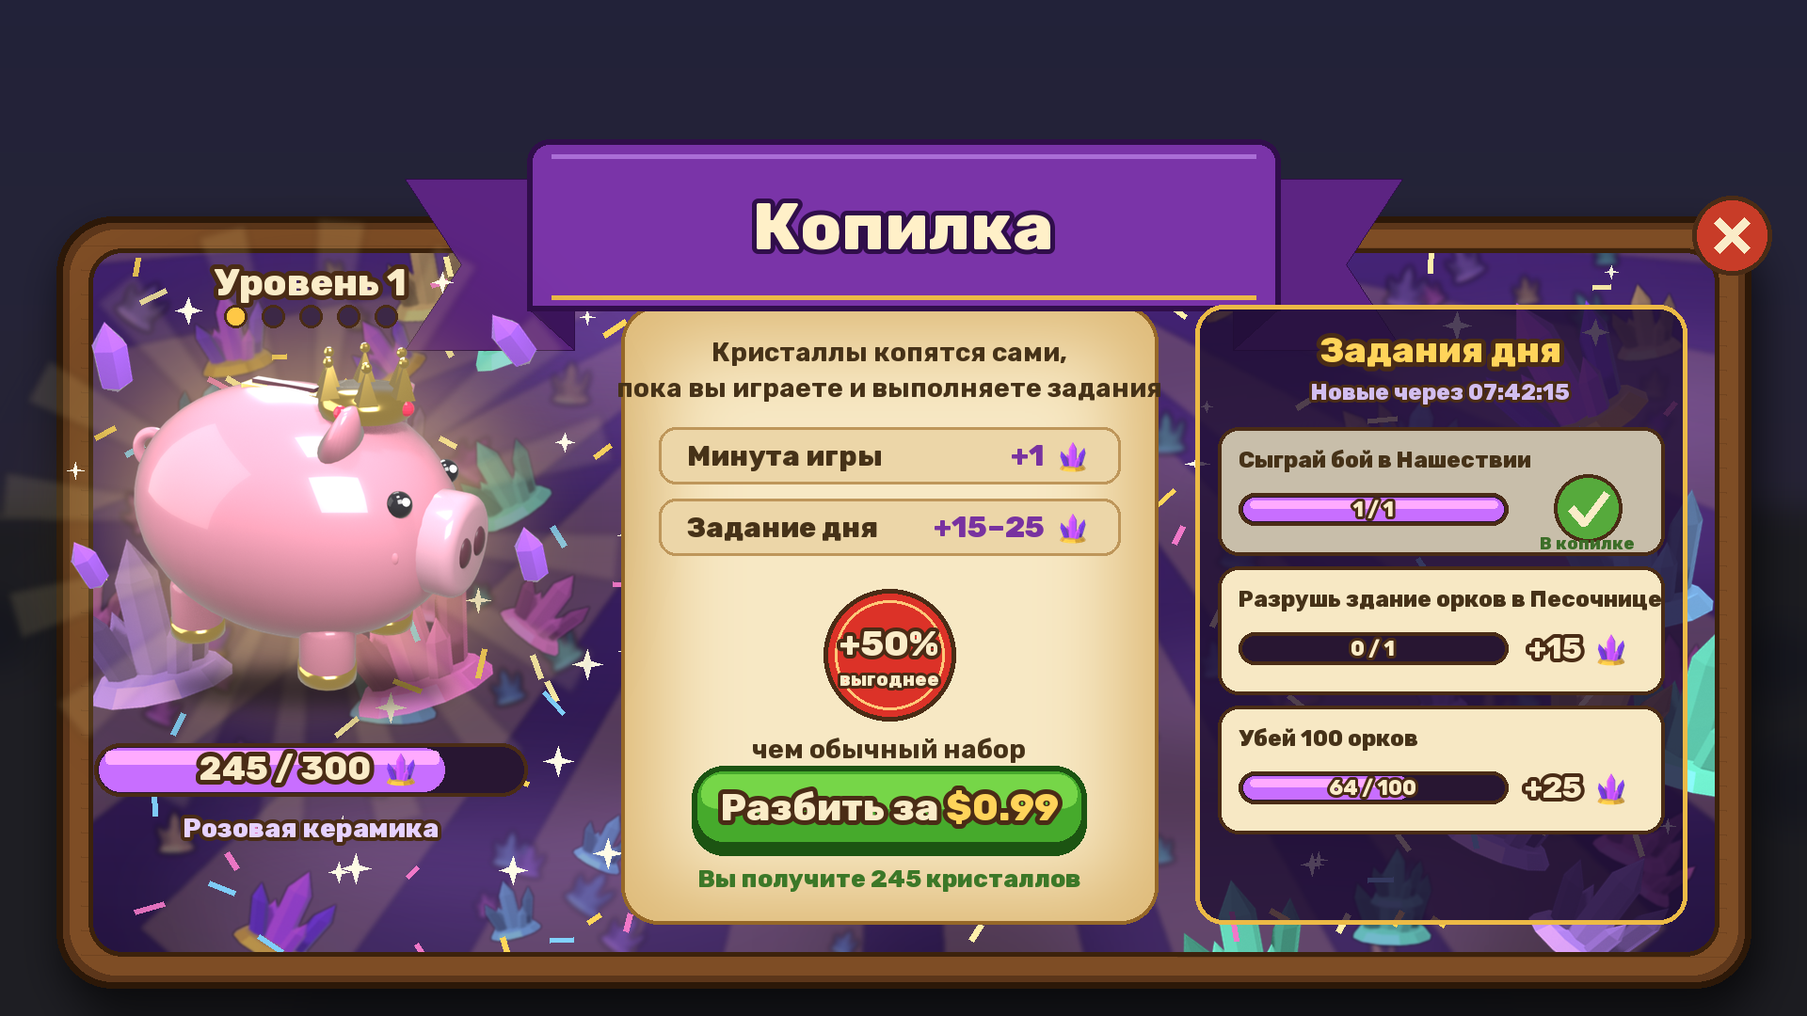
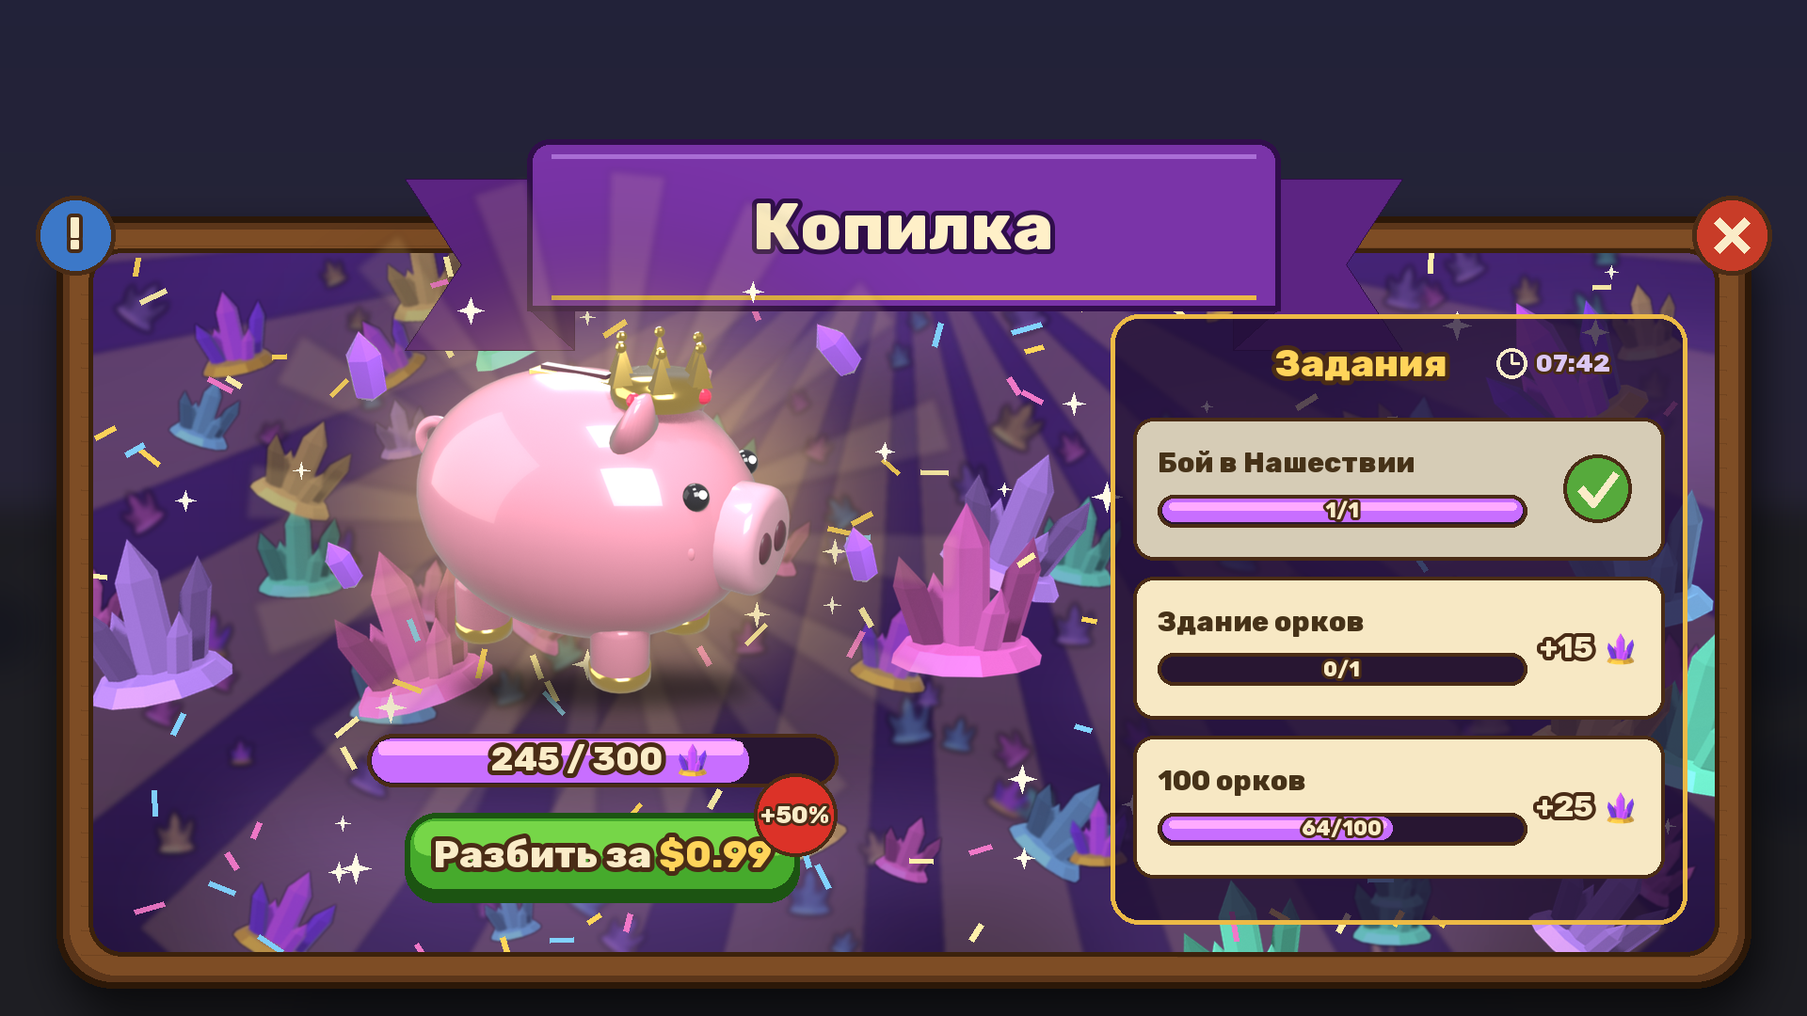
Piggy window v2: far less text -- pig, bar, break button, compact tasks; explanations moved to an «!» popup

diff --git a/Tools/store/piggy_window_concept.py b/Tools/store/piggy_window_concept.py
@@ -1,14 +1,14 @@
 """
-Piggy bank window («Копилка», the user 2026-11-15/16): what a tap on the corner button opens -- a concept for approval.
-Built on the support banner's look (wood frame, royal-purple crystal field, ribbon title, parchment):
-left the big royal pig of the current level with floating crystals, the level and a fill bar; centre a parchment
-with how it fills, the value tag and «Разбить за $X» (locked below 150); right the day's tasks (examples only --
-the list is still to be discussed). Two states side by side: saving and full.
+Piggy bank window («Копилка»), concept v2 (the user, 2026-11-16: v1 had too much text and looked off-putting --
+cut it down, move explanations behind an «!» info button).
+The window holds only what the player acts on: the pig, its fill bar, «Разбить за $X» (with a small «+50 %» badge),
+and a compact list of the day's tasks. Everything that explains (how it fills, from 150, +50 %, levels) lives in
+the «!» popup. Three pictures: saving, full, the «!» popup.
 
     python Tools/store/piggy_window_concept.py <renders folder>
 
 <renders folder> holds piggy_royal_pink_alone.png and piggy_gem_pink.png (Tools/blender/store/piggy_bank.py).
-Writes Design/store/Piggy_Window_Concept.png.
+Writes Design/store/Piggy_Window_Concept.png, Piggy_Window_Full_Concept.png, Piggy_Window_Info_Concept.png.
 """
 import math
 import os
@@ -16,14 +16,15 @@ import sys
 
 sys.path.insert(0, os.path.dirname(os.path.abspath(__file__)))
 from PIL import Image, ImageDraw, ImageFilter
-from menu_shop_mockup import W, H, R, INK, CREAM, text, put, price_button, sliced, crystal, menu_scene, sparkle, font
-from support_banner_v2_mockup import frame, parchment, band, layer, IX0, IY0, IX1, IY1, X1, Y0
+from menu_shop_mockup import W, H, R, INK, CREAM, text, put, sliced, crystal, menu_scene, sparkle, font
+from support_banner_v2_mockup import frame, parchment, band, layer, IX0, IY0, IX1, IY1, X0, X1, Y0
 
 SHOP = R + 'Assets/_Project/UI/Shop/'
 GOLD = (255, 212, 90)
 DARK = (70, 50, 24)
-TASKS = [('Сыграй бой в Нашествии', 1, 1, 20), ('Разрушь здание орков в Песочнице', 0, 1, 15),
-         ('Убей 100 орков', 64, 100, 25)]
+# the tasks shown are EXAMPLES (the list is to be discussed): short names, one line each
+TASKS = [('Бой в Нашествии', 1, 1, 20), ('Здание орков', 0, 1, 15), ('100 орков', 64, 100, 25)]
+PX = 640     # the pig column's centre
 
 
 def trim(im, w=None, h=None):
@@ -32,168 +33,168 @@ def trim(im, w=None, h=None):
     return im.resize((max(1, round(im.width * k)), max(1, round(im.height * k))), Image.LANCZOS)
 
 
-def bar(img, box, k, full):
+def bar(img, box, k, gold):
     x0, y0, x1, y1 = box
     d = ImageDraw.Draw(img)
     r = (y1 - y0) // 2
     d.rounded_rectangle(box, r, fill=(40, 22, 50), outline=INK, width=4)
     if k > 0:
         fx = x0 + 5 + (x1 - x0 - 10) * min(1, k)
-        col = (255, 196, 60) if full else (200, 110, 255)
+        col = (255, 196, 60) if gold else (200, 110, 255)
         d.rounded_rectangle((x0 + 5, y0 + 5, fx, y1 - 5), r - 5, fill=col)
         d.rounded_rectangle((x0 + 12, y0 + 8, fx - 6, y0 + 8 + (y1 - y0) // 4), 4,
                             fill=tuple(min(255, c + 60) for c in col))
 
 
-def pig_side(img, pig, gem, count, cap, full):
-    """Left: shine, rays, the pig, the floating crystals, level tag, the fill bar."""
-    cx, cy = 330, 560
+def round_button(d, c, r, fill, glyph):
+    x, y = c
+    d.ellipse((x - r, y - r, x + r, y + r), fill=fill, outline=INK, width=5)
+    text(d, (x, y - 2), glyph, int(r * 1.15), stroke=4)
+
+
+def pig_column(img, pig, gem, count, cap, full):
+    cx, cy = PX, 560
     g = layer()
-    ImageDraw.Draw(g).ellipse((cx - 250, cy - 240, cx + 250, cy + 220), fill=(255, 214, 110, 170 if full else 110))
-    img.alpha_composite(g.filter(ImageFilter.GaussianBlur(60)))
+    ImageDraw.Draw(g).ellipse((cx - 300, cy - 260, cx + 300, cy + 220), fill=(255, 214, 110, 170 if full else 110))
+    img.alpha_composite(g.filter(ImageFilter.GaussianBlur(70)))
     lay = layer()
     ld = ImageDraw.Draw(lay)
     for i in range(16):
         a = i * math.pi / 8 + 0.1
-        ld.polygon([(cx, cy), (cx + math.cos(a - 0.08) * 330, cy + math.sin(a - 0.08) * 330),
-                    (cx + math.cos(a + 0.08) * 330, cy + math.sin(a + 0.08) * 330)], fill=(255, 230, 150, 50 if full else 30))
+        ld.polygon([(cx, cy), (cx + math.cos(a - 0.08) * 380, cy + math.sin(a - 0.08) * 380),
+                    (cx + math.cos(a + 0.08) * 380, cy + math.sin(a + 0.08) * 380)], fill=(255, 230, 150, 50 if full else 30))
     img.alpha_composite(lay.filter(ImageFilter.GaussianBlur(4)))
-    p = trim(pig, w=380)
+    p = trim(pig, w=400)
     if full:
         p = p.rotate(-3, resample=Image.BICUBIC, expand=True)
     sh = layer()
-    ImageDraw.Draw(sh).ellipse((cx - 150, cy + 150, cx + 150, cy + 190), fill=(0, 0, 0, 130))
+    ImageDraw.Draw(sh).ellipse((cx - 160, cy + 150, cx + 160, cy + 192), fill=(0, 0, 0, 130))
     img.alpha_composite(sh.filter(ImageFilter.GaussianBlur(10)))
-    img.alpha_composite(p, (round(cx - p.width / 2), round(cy + 175 - p.height)))
-    for x, y, h, t in ((120, 380, 70, -12), (545, 360, 60, 14), (95, 600, 52, 8), (565, 590, 56, -10)):
+    img.alpha_composite(p, (round(cx - p.width / 2), round(cy + 178 - p.height)))
+    for x, y, h, t in ((cx - 250, 390, 70, -12), (cx + 250, 370, 60, 14), (cx - 275, 600, 52, 8), (cx + 275, 590, 56, -10)):
         q = trim(gem, h=h).rotate(t, resample=Image.BICUBIC, expand=True)
         img.alpha_composite(q, (x - q.width // 2, y - q.height // 2))
     d = ImageDraw.Draw(img)
-    for x, y, r in ((200, 330, 14), (470, 300, 11), (600, 470, 10), (80, 500, 9)):
+    for x, y, r in ((cx - 140, 330, 14), (cx + 160, 310, 11), (cx + 300, 480, 10), (cx - 320, 500, 9)):
         sparkle(d, x, y, r)
-    # level: «Уровень 1 · Розовая керамика» + five pips
-    text(d, (cx, 300), 'Уровень 1', 40, fill=CREAM)
-    for i in range(5):
-        x = cx - 80 + i * 40
-        d.ellipse((x - 12, 336 - 12, x + 12, 336 + 12), fill=(255, 200, 70) if i == 0 else (60, 40, 70), outline=INK, width=3)
-    if full:
-        d.rounded_rectangle((cx + 120, 752, cx + 290, 800), 24, fill=(220, 50, 40), outline=(90, 14, 10), width=4)
-        text(d, (cx + 205, 775), 'Полна!', 30, fill=(255, 245, 225), stroke=3, stroke_fill=(90, 14, 10))
-    # the fill bar with the count
-    bar(img, (cx - 230, 790, cx + 230, 846), count / cap, full)
-    s = '%s / %s' % (count, cap)
+    # no level marks in the window: the pig's material shows the level, «Уровень N из 5» is in the «!» popup
+    # the fill bar with the count; «Полна!» rides on it when full
+    bar(img, (cx - 250, 780, cx + 250, 836), count / cap, full)
     d = ImageDraw.Draw(img)
+    s = '%s / %s' % (count, cap)
     f = font(36)
     tw = d.textlength(s, font=f)
     ic = crystal(44)
     x0 = cx - (tw + 10 + ic.width) / 2
-    text(d, (x0, 816), s, 36, fill=GOLD if full else CREAM, anchor='lm')
-    put(img, ic, (x0 + tw + 10 + ic.width / 2, 816))
-    text(d, (cx, 880), 'Розовая керамика', 28, fill=(230, 210, 255), stroke=4)
-
-
-def centre_column(img, box, count, full):
-    pw0, pt, pw1, pb = box
-    cx = (pw0 + pw1) / 2
-    d = ImageDraw.Draw(img)
-    text(d, (cx, pt + 50), 'Кристаллы копятся сами,', 28, fill=DARK, stroke=0, heavy=False)
-    text(d, (cx, pt + 88), 'пока вы играете и выполняете задания', 28, fill=DARK, stroke=0, heavy=False)
-    # how it fills: two lines with icons
-    y = pt + 160
-    for words, n in (('Минута игры', '+1'), ('Задание дня', '+15–25')):
-        d.rounded_rectangle((pw0 + 40, y - 30, pw1 - 40, y + 30), 18, fill=(236, 214, 168), outline=(190, 150, 90), width=3)
-        text(d, (pw0 + 70, y), words, 30, fill=DARK, stroke=0, anchor='lm')
-        ic = crystal(40)
-        put(img, ic, (pw1 - 70 - ic.width / 2, y))
-        text(d, (pw1 - 80 - ic.width, y), n, 32, fill=(120, 50, 160), stroke=0, anchor='rm')
-        y += 76
-    # the value: a red seal «+50 %» and a line
-    sy = y + 60
-    d.ellipse((cx - 70, sy - 70, cx + 70, sy + 70), fill=(220, 50, 40), outline=INK, width=5)
-    d.ellipse((cx - 58, sy - 58, cx + 58, sy + 58), outline=(255, 200, 120), width=3)
-    text(d, (cx, sy - 12), '+50%', 38, stroke=4)
-    text(d, (cx, sy + 26), 'выгоднее', 20, stroke=3)
-    text(d, (cx, sy + 100), 'чем обычный набор', 28, fill=DARK, stroke=0, heavy=False)
-    # the break button
-    by = pb - 120
-    if count >= 150:
-        put(img, sliced(SHOP + 'ButtonGreen.png', 420, 96, 40), (cx, by))
-        line_y = by - 4
-        f = font(40)
-        s1, s2 = 'Разбить за ', '$0.99'
-        w1, w2 = d.textlength(s1, font=f), d.textlength(s2, font=f)
-        x = cx - (w1 + w2) / 2
-        text(d, (x, line_y), s1, 40, anchor='lm')
-        text(d, (x + w1, line_y), s2, 40, fill=GOLD, anchor='lm')
-        n = '{:,}'.format(count).replace(',', ' ')
-        text(d, (cx, by + 72), 'Вы получите %s кристаллов' % n, 26, fill=(60, 120, 40), stroke=0)
-    else:
-        put(img, sliced(SHOP + 'ButtonGreen.png', 420, 96, 40).convert('LA').convert('RGBA'), (cx, by))
-        text(d, (cx, by - 4), 'Разбить от 150', 40)
+    text(d, (x0, 806), s, 36, fill=GOLD if full else CREAM, anchor='lm')
+    put(img, ic, (x0 + tw + 10 + ic.width / 2, 806))
     if full:
-        g = layer()
-        ImageDraw.Draw(g).rounded_rectangle((cx - 230, by - 60, cx + 230, by + 60), 40, outline=(255, 220, 90, 220), width=16)
-        img.alpha_composite(g.filter(ImageFilter.GaussianBlur(10)))
+        d.rounded_rectangle((cx + 150, 744, cx + 310, 790), 23, fill=(220, 50, 40), outline=(90, 14, 10), width=4)
+        text(d, (cx + 230, 766), 'Полна!', 28, fill=(255, 245, 225), stroke=3, stroke_fill=(90, 14, 10))
+    # the break button + a small «+50 %» badge on its corner
+    by = 912
+    if full:
+        gl = layer()
+        ImageDraw.Draw(gl).rounded_rectangle((cx - 230, by - 58, cx + 230, by + 58), 40, outline=(255, 220, 90, 220), width=16)
+        img.alpha_composite(gl.filter(ImageFilter.GaussianBlur(10)))
+    put(img, sliced(SHOP + 'ButtonGreen.png', 420, 96, 40), (cx, by))
+    d = ImageDraw.Draw(img)
+    f = font(40)
+    s1, s2 = 'Разбить за ', '$0.99'
+    w1, w2 = d.textlength(s1, font=f), d.textlength(s2, font=f)
+    x = cx - (w1 + w2) / 2
+    text(d, (x, by - 4), s1, 40, anchor='lm')
+    text(d, (x + w1, by - 4), s2, 40, fill=GOLD, anchor='lm')
+    bx, byy = cx + 205, by - 46
+    d.ellipse((bx - 44, byy - 44, bx + 44, byy + 44), fill=(220, 50, 40), outline=INK, width=4)
+    text(d, (bx, byy), '+50%', 26, stroke=3)
 
 
 def tasks_panel(img, box, full):
     x0, y0, x1, y1 = box
-    d = ImageDraw.Draw(img)
     p = layer()
-    ImageDraw.Draw(p).rounded_rectangle(box, 30, fill=(30, 14, 50, 200), outline=(236, 186, 70, 255), width=5)
+    ImageDraw.Draw(p).rounded_rectangle(box, 30, fill=(30, 14, 50, 190), outline=(236, 186, 70, 255), width=5)
     img.alpha_composite(p)
     d = ImageDraw.Draw(img)
     cx = (x0 + x1) / 2
-    text(d, (cx, y0 + 48), 'Задания дня', 38, fill=GOLD)
-    text(d, (cx, y0 + 92), 'Новые через 07:42:15', 24, fill=(210, 190, 240), stroke=3)
-    y = y0 + 130
+    text(d, (cx - 40, y0 + 52), 'Задания', 40, fill=GOLD)
+    # the reset time as a small clock + time, no words
+    tx = cx + 120
+    d.ellipse((tx - 16, y0 + 36, tx + 16, y0 + 68), outline=CREAM, width=4)
+    d.line((tx, y0 + 52, tx, y0 + 42), fill=CREAM, width=3)
+    d.line((tx, y0 + 52, tx + 8, y0 + 52), fill=CREAM, width=3)
+    text(d, (tx + 26, y0 + 52), '07:42', 26, fill=(220, 200, 245), stroke=3, anchor='lm')
+    y = y0 + 110
+    rh = (y1 - y0 - 140) // 3
     for name, have, need, reward in TASKS:
         done = have >= need
-        claimed = done and name.startswith('Сыграй')
-        rb = (x0 + 24, y, x1 - 24, y + 136)
-        d.rounded_rectangle(rb, 22, fill=(247, 232, 196) if not claimed else (200, 190, 170), outline=INK, width=4)
-        text(d, (x0 + 46, y + 34), name, 24, fill=DARK, stroke=0, anchor='lm')
-        # progress
-        bar(img, (x0 + 46, y + 70, x1 - 190, y + 104), have / need, False)
+        rb = (x0 + 24, y, x1 - 24, y + rh - 18)
+        d.rounded_rectangle(rb, 22, fill=(247, 232, 196) if not done else (214, 204, 182), outline=INK, width=4)
+        mid = (rb[1] + rb[3]) / 2
+        text(d, (x0 + 50, mid - 28), name, 30, fill=DARK, stroke=0, anchor='lm')
+        bar(img, (x0 + 50, mid + 6, x1 - 170, mid + 40), have / need, False)
         d = ImageDraw.Draw(img)
-        text(d, ((x0 + 46 + x1 - 190) / 2, y + 87), '%d / %d' % (have, need), 22, stroke=3)
-        # reward / state on the right
-        rx = x1 - 105
-        if claimed:
-            d.ellipse((rx - 36, y + 50, rx + 36, y + 122), fill=(86, 170, 60), outline=INK, width=4)
-            d.line((rx - 18, y + 86, rx - 4, y + 102, rx + 20, y + 70), fill=CREAM, width=9, joint='curve')
-            text(d, (rx, y + 124), 'В копилке', 18, fill=(60, 110, 40), stroke=0)
+        text(d, ((x0 + 50 + x1 - 170) / 2, mid + 23), '%d/%d' % (have, need), 22, stroke=3)
+        rx = x1 - 95
+        if done:   # credited into the piggy by itself: just a tick
+            d.ellipse((rx - 36, mid - 36, rx + 36, mid + 36), fill=(86, 170, 60), outline=INK, width=4)
+            d.line((rx - 18, mid, rx - 4, mid + 16, rx + 20, mid - 16), fill=CREAM, width=9, joint='curve')
         else:
             ic = crystal(42)
-            s = '+%d' % reward
-            text(d, (rx - 6, y + 87), s, 32, fill=CREAM, anchor='rm', stroke=4)
-            put(img, ic, (rx + 4 + ic.width / 2, y + 87))
-        y += 148
-    if full:
-        d.rounded_rectangle((x0 + 24, y1 - 82, x1 - 24, y1 - 20), 18, fill=(220, 50, 40), outline=(90, 14, 10), width=4)
-        text(d, (cx, y1 - 60), 'Копилка полна —', 22, stroke=3, stroke_fill=(90, 14, 10))
-        text(d, (cx, y1 - 36), 'награды заданий пропадут!', 22, stroke=3, stroke_fill=(90, 14, 10))
+            col = (150, 140, 130) if full else CREAM   # full: rewards go grey (they would be lost)
+            text(d, (rx - 4, mid), '+%d' % reward, 32, fill=col, anchor='rm', stroke=4)
+            g = ic.convert('LA').convert('RGBA') if full else ic
+            put(img, g, (rx + 4 + ic.width / 2, mid))
+        y += rh
 
 
 def window(pig, gem, count, cap, full):
     img = menu_scene()
     img = Image.alpha_composite(img.filter(ImageFilter.GaussianBlur(6)), Image.new('RGBA', (W, H), (14, 6, 30, 190)))
     win = frame()
-    pbox = (660, IY0 + 60, 1230, IY1 - 34)
-    win = parchment(win, pbox)
     rx0, rx1, ry0, ry1 = 560, 1360, Y0 - 82, IY0 + 66
     win, rib_o = band(win, rx0, rx1, ry0, ry1)
     img = Image.alpha_composite(img, win)
     d = ImageDraw.Draw(img)
     text(d, ((rx0 + rx1) / 2, (ry0 + ry1) / 2 + 2), 'Копилка', 70, fill=(255, 240, 200), stroke=5, stroke_fill=rib_o)
-    # ✕ in the corner
-    cxx, cyy = X1 - 20, Y0 + 20
-    d.ellipse((cxx - 42, cyy - 42, cxx + 42, cyy + 42), fill=(200, 60, 40), outline=INK, width=5)
-    d.line((cxx - 16, cyy - 16, cxx + 16, cyy + 16), fill=CREAM, width=9)
-    d.line((cxx - 16, cyy + 16, cxx + 16, cyy - 16), fill=CREAM, width=9)
-    pig_side(img, pig, gem, count, cap, full)
-    centre_column(img, pbox, count, full)
-    tasks_panel(img, (1270, IY0 + 60, IX1 - 34, IY1 - 34), full)
+    round_button(d, (X1 - 20, Y0 + 20), 42, (200, 60, 40), '✕' if False else '')
+    d.line((X1 - 36, Y0 + 4, X1 - 4, Y0 + 36), fill=CREAM, width=9)
+    d.line((X1 - 36, Y0 + 36, X1 - 4, Y0 + 4), fill=CREAM, width=9)
+    round_button(d, (X0 + 20, Y0 + 20), 42, (60, 120, 200), '!')    # info: all the explanations
+    pig_column(img, pig, gem, count, cap, full)
+    tasks_panel(img, (1180, IY0 + 70, IX1 - 34, IY1 - 34), full)
+    return img
+
+
+def info(base):
+    """The «!» popup over the dimmed window: short lines, an icon each."""
+    img = Image.alpha_composite(base, Image.new('RGBA', (W, H), (10, 4, 20, 170)))
+    box = (520, 130, 1400, 980)
+    img = parchment(img, box)
+    d = ImageDraw.Draw(img)
+    x0, y0, x1, y1 = box
+    text(d, ((x0 + x1) / 2, y0 + 62), 'Как работает копилка', 46, fill=DARK, stroke=0)
+    text(d, ((x0 + x1) / 2, y0 + 112), 'Уровень 1 из 5', 30, fill=(140, 70, 170), stroke=0)
+    rows = [('+1', 'за каждую минуту игры'), ('✓', 'задания дня добавляют ещё'), ('150', 'разбить можно от 150'),
+            ('%', 'на 50% выгоднее обычного набора'), ('↑', 'покупка открывает копилку побольше')]
+    y = y0 + 200
+    for glyph, s in rows:
+        cxx = x0 + 110
+        d.ellipse((cxx - 42, y - 42, cxx + 42, y + 42), fill=(120, 60, 170), outline=INK, width=4)
+        if glyph == '+1':
+            put(img, crystal(40), (cxx + 12, y + 4))
+            text(d, (cxx - 14, y - 6), '+1', 26, stroke=3)
+        elif glyph == '✓':
+            d.line((cxx - 18, y, cxx - 4, y + 16, cxx + 20, y - 16), fill=CREAM, width=9, joint='curve')
+        elif glyph == '↑':
+            d.polygon([(cxx, y - 24), (cxx + 20, y), (cxx + 8, y), (cxx + 8, y + 22), (cxx - 8, y + 22), (cxx - 8, y), (cxx - 20, y)], fill=CREAM)
+        elif glyph == '%':
+            text(d, (cxx, y - 2), '+50%', 24, stroke=3)
+        else:
+            text(d, (cxx, y - 2), glyph, 28, stroke=3)
+        text(d, (x0 + 180, y), s, 32, fill=DARK, stroke=0, anchor='lm', heavy=False)
+        y += 112
+    text(d, ((x0 + x1) / 2, y1 - 40), 'Понятно', 40, fill=(120, 86, 40), stroke=0)
     return img
 
 
@@ -205,7 +206,8 @@ def main():
     b = window(pig, gem, 300, 300, True)
     a.convert('RGB').save(R + 'Design/store/Piggy_Window_Concept.png', optimize=True)
     b.convert('RGB').save(R + 'Design/store/Piggy_Window_Full_Concept.png', optimize=True)
-    print('written Piggy_Window_Concept.png, Piggy_Window_Full_Concept.png')
+    info(a).convert('RGB').save(R + 'Design/store/Piggy_Window_Info_Concept.png', optimize=True)
+    print('written Piggy_Window_Concept.png, Piggy_Window_Full_Concept.png, Piggy_Window_Info_Concept.png')
 
 
 if __name__ == '__main__':

diff --git a/Design/features/piggy-bank.md b/Design/features/piggy-bank.md
@@ -51,17 +51,17 @@ Concept `Tools/store/piggy_placement_concept.py <photos> <render A> [B] [C]`.
   pig WOBBLES SOFTLY (0.9 s eased in/out every 1.8 s, ~3 Hz, ±2 px / ±3°; the user: smoother), the shine brighter.
 - Script `Tools/store/piggy_button_concept.py <renders> <modes photo>`.
 
-## The window (concept 2026-11-16, waiting for the user; `Design/store/Piggy_Window_Concept.png` saving,
-`Piggy_Window_Full_Concept.png` full; `Tools/store/piggy_window_concept.py <renders>`)
-On the support banner's look: wood frame, purple crystal field, ribbon «Копилка», ✕ top right.
-- Left: the big pig of the current level on a golden shine with rays, floating crystals; «Уровень N» + 5 pips;
-  fill bar «245 / 300 💎» (gold when full + a «Полна!» tag on it); the level's material name.
-- Centre parchment: «Кристаллы копятся сами, пока вы играете и выполняете задания»; rows «Минута игры +1»,
-  «Задание дня +15–25»; red seal «+50 % выгоднее чем обычный набор»; green «Разбить за $0.99» + «Вы получите N
-  кристаллов» (below 150: grey «Разбить от 150»); full: the button glows.
-- Right: «Задания дня», «Новые через hh:mm:ss», 3 task cards (name, progress bar, +N 💎 / a green tick «В копилке»
-  when done -- rewards go in by themselves, no claim button); full: a red line «награды заданий пропадут!».
-  The tasks shown are EXAMPLES; the list is to be discussed.
+## The window (concept v2 2026-11-16, waiting for the user; `Design/store/Piggy_Window_Concept.png` saving,
+`Piggy_Window_Full_Concept.png` full, `Piggy_Window_Info_Concept.png` the «!» popup; `Tools/store/piggy_window_concept.py <renders>`)
+RULE (the user 2026-11-16): v1 had too much text and looked off-putting -- the window keeps only what the player acts
+on; every explanation goes behind the «!» button.
+- Frame of the support banner, ribbon «Копилка», «!» top LEFT corner, ✕ top right.
+- Left: the big pig (its material = the level; no level text/pips), floating crystals, the fill bar «245 / 300 💎»
+  (gold + «Полна!» tag when full), green «Разбить за $0.99» with a small red «+50%» badge; full: the button glows.
+- Right: «Задания» + clock «07:42»; 3 short task cards (name, bar, +N 💎 / a tick when done -- credited by itself);
+  full: the rewards go GREY (no warning text). Task names are EXAMPLES, the list is to be discussed.
+- «!» popup (parchment): «Как работает копилка», «Уровень 1 из 5», five icon rows: +1 a minute of play; day tasks add
+  more; break from 150; 50 % better than a regular pack; a purchase opens a bigger piggy; «Понятно».
 
 ## Levels (APPROVED by the user 2026-11-16, `Design/store/Piggy_Levels_Concept.png`)
 Same royal pig, the material changes: 1 pink ceramic (300), 2 bronze (500), 3 silver (1000), 4 gold (1500),
